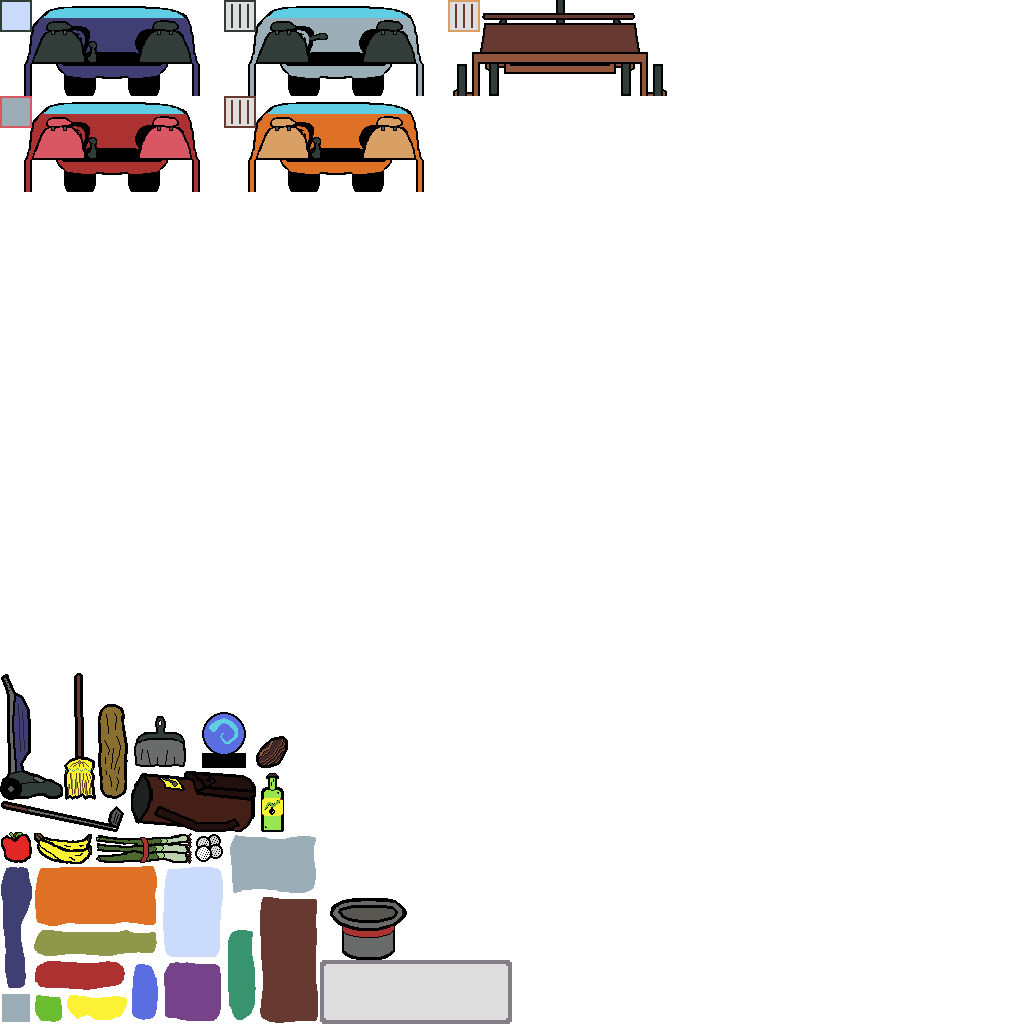
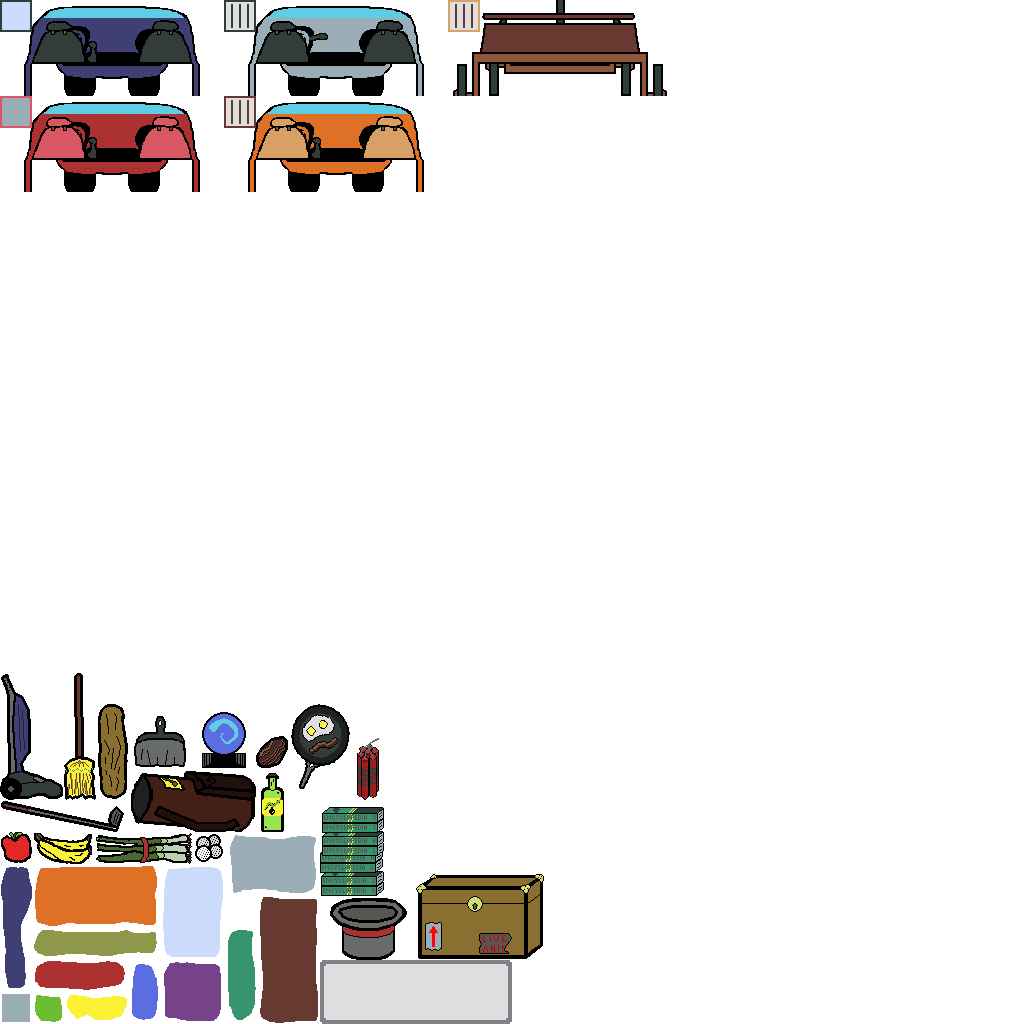
Added Steamer Trunk, Encyclopedia, Frying Pan, Dynamite

Changed region(s): [[0.2812, 0.6875, 0.375, 0.875], [0.4062, 0.8438, 0.5312, 0.9375]]

diff --git a/internal/constants/trunkominos.go b/internal/constants/trunkominos.go
@@ -5,19 +5,21 @@ import "ludum-dare-54/pkg/world"
 var (
 	//Trunkominos
 	TrunkominoTypes = map[TrunkominoType][]world.Coords{
-		SizeOnebyOne:   {{0, 0}},
-		SizeTwobyOne:   {{0, 0}, {1, 0}},
-		SizeOnebyTwo:   {{0, 0}, {0, 1}},
-		SizeThreebyOne: {{0, 0}, {1, 0}, {2, 0}},
-		SizeOnebyThree: {{0, 0}, {0, 1}, {0, 2}},
-		SizeFourbyOne:  {{0, 0}, {1, 0}, {2, 0}, {3, 0}},
-		SizeOnebyFour:  {{0, 0}, {0, 1}, {0, 2}, {0, 3}},
-		SizeTwobyTwo:   {{0, 0}, {1, 0}, {0, 1}, {1, 1}},
-		SizeThreebyTwo: {{0, 0}, {1, 0}, {0, 1}, {1, 1}, {2, 0}, {2, 1}},
-		SizeFourbyTwo:  {{0, 0}, {1, 0}, {0, 1}, {1, 1}, {2, 0}, {2, 1}, {3, 0}, {3, 1}},
-		SizeTwobyThree: {{0, 0}, {1, 0}, {0, 1}, {1, 1}, {0, 2}, {1, 2}},
-		SizeTwobyFour:  {{0, 0}, {1, 0}, {0, 1}, {1, 1}, {0, 2}, {1, 2}, {0, 3}, {1, 3}},
-		SizeTwobyFourL: {{0, 0}, {1, 0}, {0, 1}, {0, 2}, {0, 3}},
+		SizeOnebyOne:    {{0, 0}},
+		SizeTwobyOne:    {{0, 0}, {1, 0}},
+		SizeOnebyTwo:    {{0, 0}, {0, 1}},
+		SizeThreebyOne:  {{0, 0}, {1, 0}, {2, 0}},
+		SizeOnebyThree:  {{0, 0}, {0, 1}, {0, 2}},
+		SizeFourbyOne:   {{0, 0}, {1, 0}, {2, 0}, {3, 0}},
+		SizeOnebyFour:   {{0, 0}, {0, 1}, {0, 2}, {0, 3}},
+		SizeTwobyTwo:    {{0, 0}, {1, 0}, {0, 1}, {1, 1}},
+		SizeThreebyTwo:  {{0, 0}, {1, 0}, {0, 1}, {1, 1}, {2, 0}, {2, 1}},
+		SizeFourbyTwo:   {{0, 0}, {1, 0}, {0, 1}, {1, 1}, {2, 0}, {2, 1}, {3, 0}, {3, 1}},
+		SizeTwobyThree:  {{0, 0}, {1, 0}, {0, 1}, {1, 1}, {0, 2}, {1, 2}},
+		SizeTwobyFour:   {{0, 0}, {1, 0}, {0, 1}, {1, 1}, {0, 2}, {1, 2}, {0, 3}, {1, 3}},
+		SizeTwobyFourL:  {{0, 0}, {1, 0}, {0, 1}, {0, 2}, {0, 3}},
+		SizeFourbyThree: {{0, 0}, {1, 0}, {0, 1}, {1, 1}, {2, 0}, {2, 1}, {3, 0}, {3, 1}, {0, 2}, {1, 2}, {2, 2}, {3, 2}},
+		SizeTwobyThreeP: {{0, 0}, {0, 1}, {1, 1}, {0, 2}, {1, 2}},
 	}
 )
 
@@ -38,6 +40,8 @@ const (
 	SizeTwobyThree          = "SizeTwobyThree"
 	SizeTwobyFour           = "SizeTwobyFour"
 	SizeTwobyFourL          = "SizeTwobyFourL"
+	SizeFourbyThree         = "SizeFourbyThree"
+	SizeTwobyThreeP         = "SizeTwobyThreeP"
 )
 
 // GetMovedCoords assumes the center of even numbers is moved to the left and

diff --git a/internal/data/wares.go b/internal/data/wares.go
@@ -220,6 +220,30 @@ var (
 			SpriteKey: constants.TopHat,
 			Value:     50 + constants.GlobalSeededRandom.Intn(50),
 			Active:    true,
+		}, {
+			Name:      constants.SteamerTrunk,
+			ShapeKey:  constants.SizeFourbyThree,
+			SpriteKey: constants.SteamerTrunk,
+			Value:     50 + constants.GlobalSeededRandom.Intn(50),
+			Active:    true,
+		}, {
+			Name:      constants.Encyclopedias,
+			ShapeKey:  constants.SizeTwobyThree,
+			SpriteKey: constants.Encyclopedias,
+			Value:     50 + constants.GlobalSeededRandom.Intn(50),
+			Active:    true,
+		}, {
+			Name:      constants.FryingPan,
+			ShapeKey:  constants.SizeTwobyThreeP,
+			SpriteKey: constants.FryingPan,
+			Value:     50 + constants.GlobalSeededRandom.Intn(50),
+			Active:    true,
+		}, {
+			Name:      constants.Dynamite,
+			ShapeKey:  constants.SizeOnebyTwo,
+			SpriteKey: constants.Dynamite,
+			Value:     50 + constants.GlobalSeededRandom.Intn(50),
+			Active:    true,
 		},
 	}
 )

diff --git a/internal/constants/sprites.go b/internal/constants/sprites.go
@@ -30,4 +30,8 @@ const (
 	JustARock       = "just a rock"
 	SnakeOil        = "snake oil"
 	TopHat          = "top hat"
+	SteamerTrunk    = "steamer trunk"
+	Encyclopedias   = "encyclopedias"
+	FryingPan       = "frying pan"
+	Dynamite        = "dynamite"
 )

diff --git a/internal/constants/constants.go b/internal/constants/constants.go
@@ -38,6 +38,7 @@ var (
 		"We've got Min's dumptruck...",
 		"F*ck Moash!!!",
 		"You Sell Out!",
+		"That's not how you talk!",
 	}
 
 	// Colors
